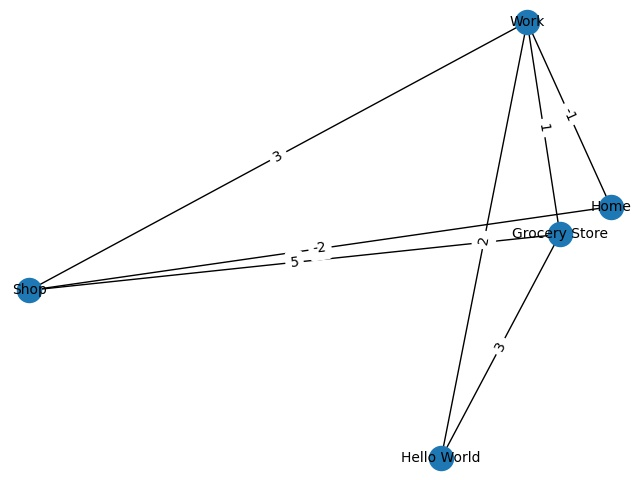
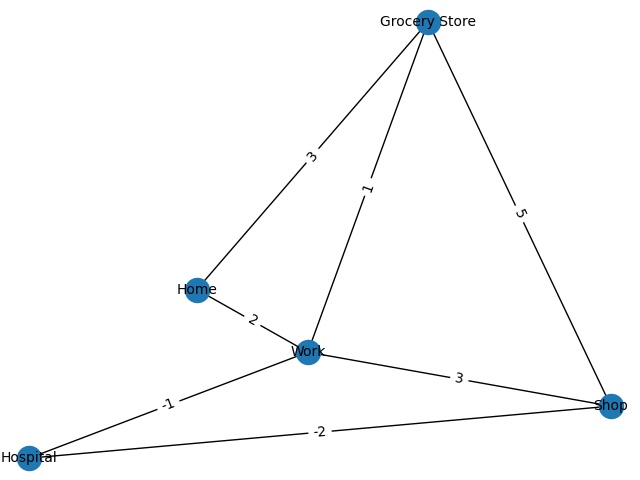
Added self-made Djikstra

diff --git a/Djikstra.py b/Djikstra.py
@@ -1,0 +1,154 @@
+import sys
+import heapq
+
+class Vertex:
+    def __lt__(self, other):
+        return self.distance < other.distance
+
+    def __le__(self, other):
+        return self.distance <= other.distance
+
+    def __gt__(self, other):
+        return self.distance > other.distance
+
+    def __ge__(self, other):
+        return self.distance >= other.distance
+    
+    def __init__(self, node):
+        self.id = node
+        self.adjacent = {}
+        # Set distance to infinity for all nodes
+        self.distance = sys.maxsize
+        # Mark all nodes unvisited        
+        self.visited = False  
+        # Predecessor
+        self.previous = None
+
+    def add_neighbor(self, neighbor, weight=0):
+        self.adjacent[neighbor] = weight
+
+    def get_connections(self):
+        return self.adjacent.keys()  
+
+    def get_id(self):
+        return self.id
+
+    def get_weight(self, neighbor):
+        return self.adjacent[neighbor]
+
+    def set_distance(self, dist):
+        self.distance = dist
+
+    def get_distance(self):
+        return self.distance
+
+    def set_previous(self, prev):
+        self.previous = prev
+
+    def set_visited(self):
+        self.visited = True
+
+    def __str__(self):
+        return str(self.id) + ' adjacent: ' + str([x.id for x in self.adjacent])
+
+class Graph:
+    def __init__(self):
+        self.vert_dict = {}
+        self.num_vertices = 0
+
+    def __iter__(self):
+        return iter(self.vert_dict.values())
+
+    def add_vertex(self, node):
+        self.num_vertices = self.num_vertices + 1
+        new_vertex = Vertex(node)
+        self.vert_dict[node] = new_vertex
+        return new_vertex
+
+    def get_vertex(self, n):
+        if n in self.vert_dict:
+            return self.vert_dict[n]
+        else:
+            return None
+
+    def add_edge(self, frm, to, cost = 0):
+        if frm not in self.vert_dict:
+            self.add_vertex(frm)
+        if to not in self.vert_dict:
+            self.add_vertex(to)
+
+        self.vert_dict[frm].add_neighbor(self.vert_dict[to], cost)
+        self.vert_dict[to].add_neighbor(self.vert_dict[frm], cost)
+
+    def get_vertices(self):
+        return self.vert_dict.keys()
+
+    def set_previous(self, current):
+        self.previous = current
+
+    def get_previous(self, current):
+        return self.previous
+
+def shortest(v, path):
+    if v.previous:
+        path.append(v.previous.get_id())
+        shortest(v.previous, path)
+    return
+
+
+def dijkstra(aGraph, start, target):
+    # Set the distance for the start node to zero 
+    start.set_distance(0)
+
+    # Put tuple pair into the priority queue
+    unvisited_queue = [(v.get_distance(),v) for v in aGraph]
+    heapq.heapify(unvisited_queue)
+
+    while len(unvisited_queue):
+        # Pops a vertex with the smallest distance 
+        uv = heapq.heappop(unvisited_queue)
+        current = uv[1]
+        current.set_visited()
+
+        #for next in v.adjacent:
+        for next in current.adjacent:
+            # if visited, skip
+            if next.visited:
+                continue
+            new_dist = current.get_distance() + current.get_weight(next)
+            
+            if new_dist < next.get_distance():
+                next.set_distance(new_dist)
+                next.set_previous(current)
+
+        # Rebuild heap
+        # 1. Pop every item
+        while len(unvisited_queue):
+            heapq.heappop(unvisited_queue)
+        # 2. Put all vertices not visited into the queue
+        unvisited_queue = [(v.get_distance(),v) for v in aGraph if not v.visited]
+        heapq.heapify(unvisited_queue)
+    
+def driver(graph, source):
+
+    g = Graph()
+
+    for key, val in graph.items():
+            for node in val:
+                g.add_edge(key, node[0], node[1])
+
+    pathDict = {}
+    for i in graph.keys():
+        dijkstra(g, g.get_vertex(source), g.get_vertex(i)) 
+
+        target = g.get_vertex(i)
+        path = [target.get_id()]
+        shortest(target, path)
+        pathDict[i] = path[::-1]
+    return pathDict
+
+
+
+# graph = {0: [(1, -1), (2, -2)], 1: [(2, 3), (3, 2), (4, 2)],
+#          2: [], 3: [(2, 5), (1, 1)], 4: [(3, 3)]}
+# driver(graph, 0)

diff --git a/Main.py b/Main.py
@@ -1,16 +1,18 @@
 import networkx as nx
 import GraphUtils
-import bellMan
+import bellMan, Djikstra
 
-# Method to calculate the Single source dijkstra and Display it
-# It prints if the graph contains negative weights
+gConf = GraphUtils.GraphUtils()
+# graphWhereDjikstraFails = {0: [(1, -1), (2, -2)], 1: [(2, 3), (3, 2), (4, 2)], 2: [], 3: [(2, -5), (1, 1)], 4: [(3, 3)]}
+graph = {0: [(1, -1), (2, -2)], 1: [(2, 3), (3, 2), (4, 2)], 2: [], 3: [(2, 5), (1, 1)], 4: [(3, 3)]}
+labels = {0: "Hospital", 1: "Work", 2: "Shop", 3: "Grocery Store", 4: "Home"}
+source = 0
 
-
-def djikstra(gConf, G, labels, pos, source):
+def djikstra(gConf, graph, G, labels, pos, source):
     try:
         # Calculating shortest distances and shortest path
         # from source node to every node
-        length, path = nx.single_source_dijkstra(G, source)
+        path = Djikstra.driver(graph, source)
         # Creating graph from the above obtained path
         djiGraph, labels, eLabels = gConf.createGraphFromPath(G, path, labels)
         # Displaying the above created graph
@@ -29,15 +31,11 @@ def bellmanFord(gConf, graph, G, labels, pos, source):
                        labels=labels, eLabels=eLabels, pos=pos)
 
 
-gConf = GraphUtils.GraphUtils()
-graph = {0: [(1, -1), (2, -2)], 1: [(2, 3), (3, 2), (4, 2)],
-         2: [], 3: [(2, 5), (1, 1)], 4: [(3, 3)]}
-labels = {0: "Home", 1: "Work", 2: "Shop",
-          3: "Grocery Store", 4: "Hello World"}
-source = 0
-G, pos, eLabels = gConf.createGraph(graph)
+G, _, eLabels = gConf.createGraph(graph)
+pos = {0: ([0.06860986, 0.27299064]), 1: ([0.4623169 , 0.41947186]), 2: ([0.8904452 , 0.34492362]), 3: ([0.63216573, 0.8758493 ]), 4: ([0.305631 , 0.506014])}
+# print(pos)
 gConf.displayGraph(G=G, pos=pos, labels=labels,
                    eLabels=eLabels, name="originalGraph.jpeg")
-djikstra(gConf=gConf, G=G, labels=labels, pos=pos, source=source)
-bellmanFord(gconf=gConf, graph=graph, G=G,
+djikstra(gConf=gConf, graph=graph, G=G, labels=labels, pos=pos, source=source)
+bellmanFord(gConf=gConf, graph=graph, G=G,
             labels=labels, pos=pos, source=source)
